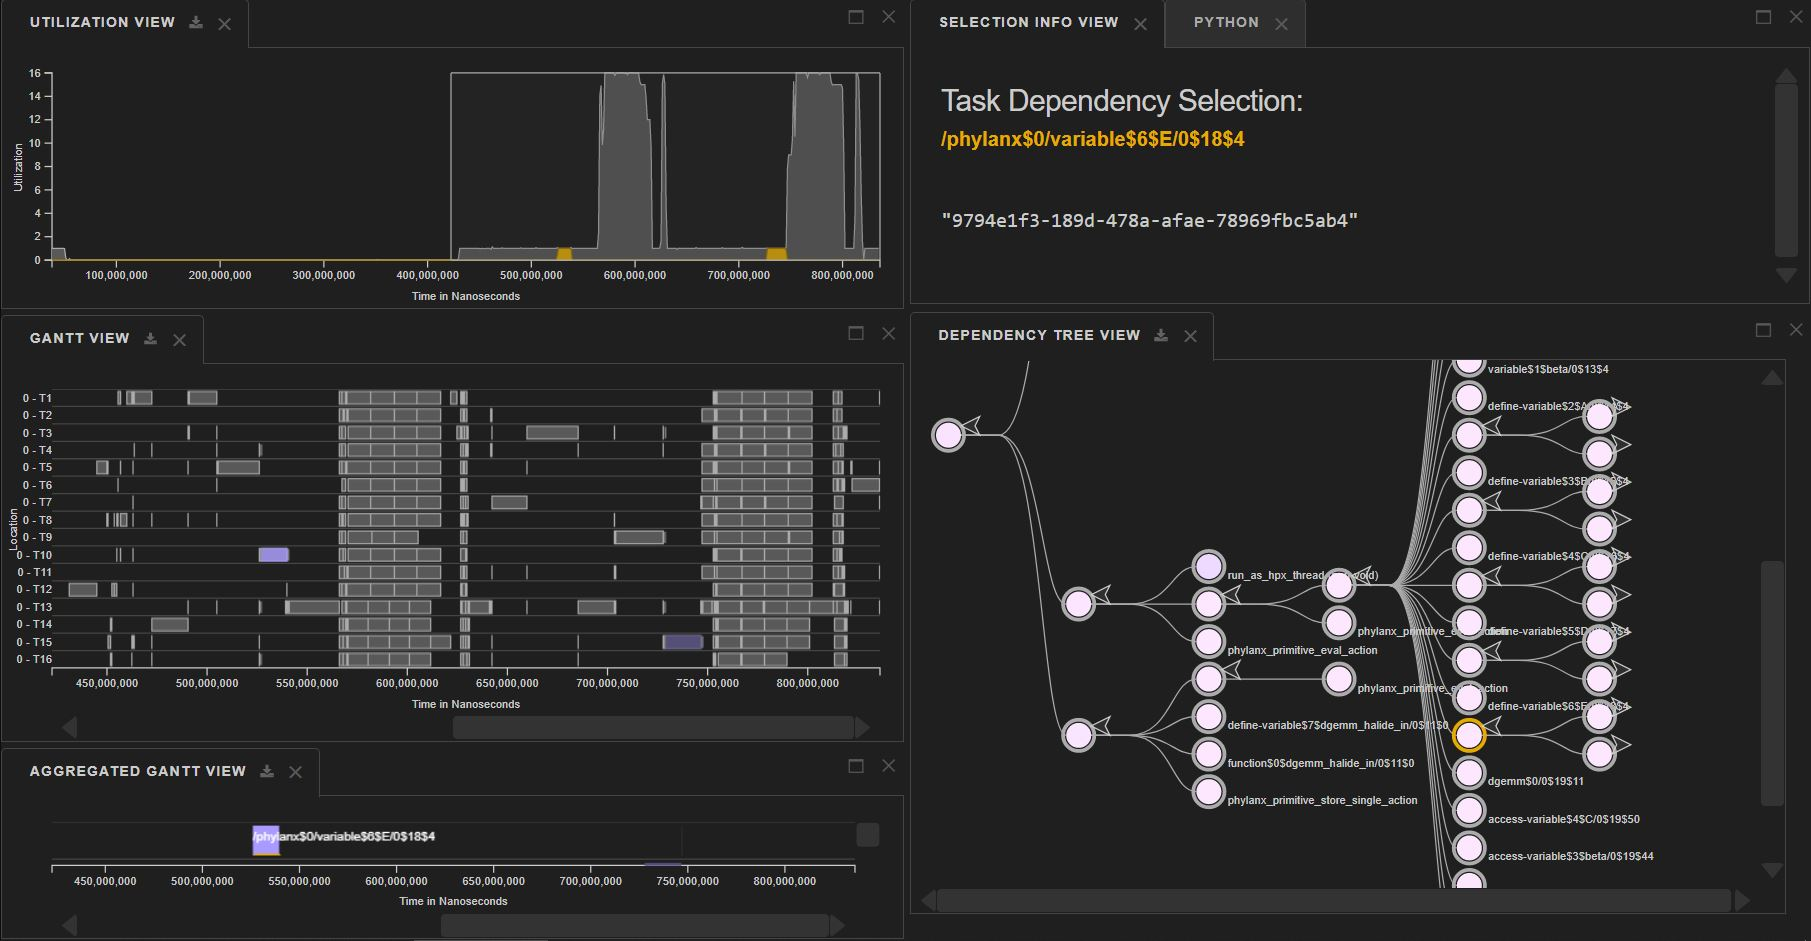
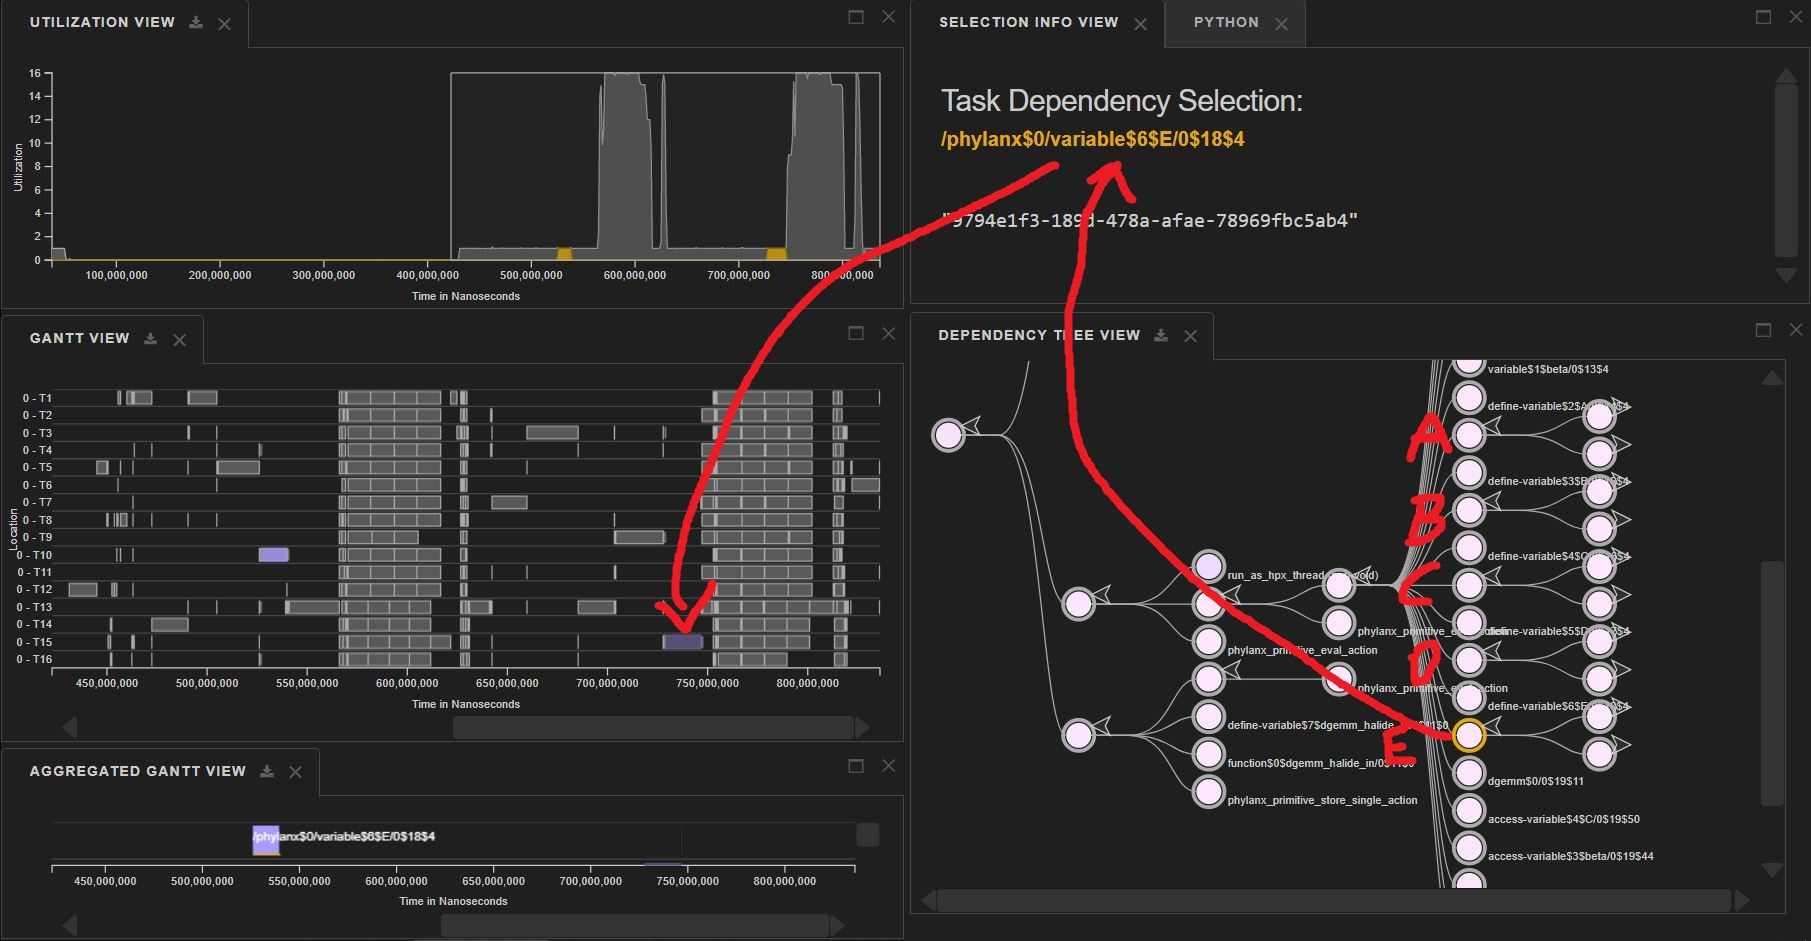
annotations

diff --git a/CaseStudyAnalysis.md b/CaseStudyAnalysis.md
@@ -5,7 +5,8 @@ following [Rod's](https://github.com/rtohid/scripts/blob/master/build/rostam/bui
 
 ### Sample Run and Observation 1 (dgemm)
 I run [this python](FinalRunWithHalide/sayef_halide_in.py) program and generated OTF2 data and visualized in Traveler. I noticed that, for the second function 
-halide_dgemm_in, it takes some time to load the variables A,B, and C. Check the purple bars in the Gantt View of these figures,
+halide_dgemm_in, it takes some time to load the variables A,B, and C. Check the purple bars in the Gantt View of these figures. I used red arrows to 
+annotate over these images. 
 ![a](FinalRunWithHalide/a.JPG)
 ![b](FinalRunWithHalide/b.JPG)
 ![c](FinalRunWithHalide/c.JPG)
